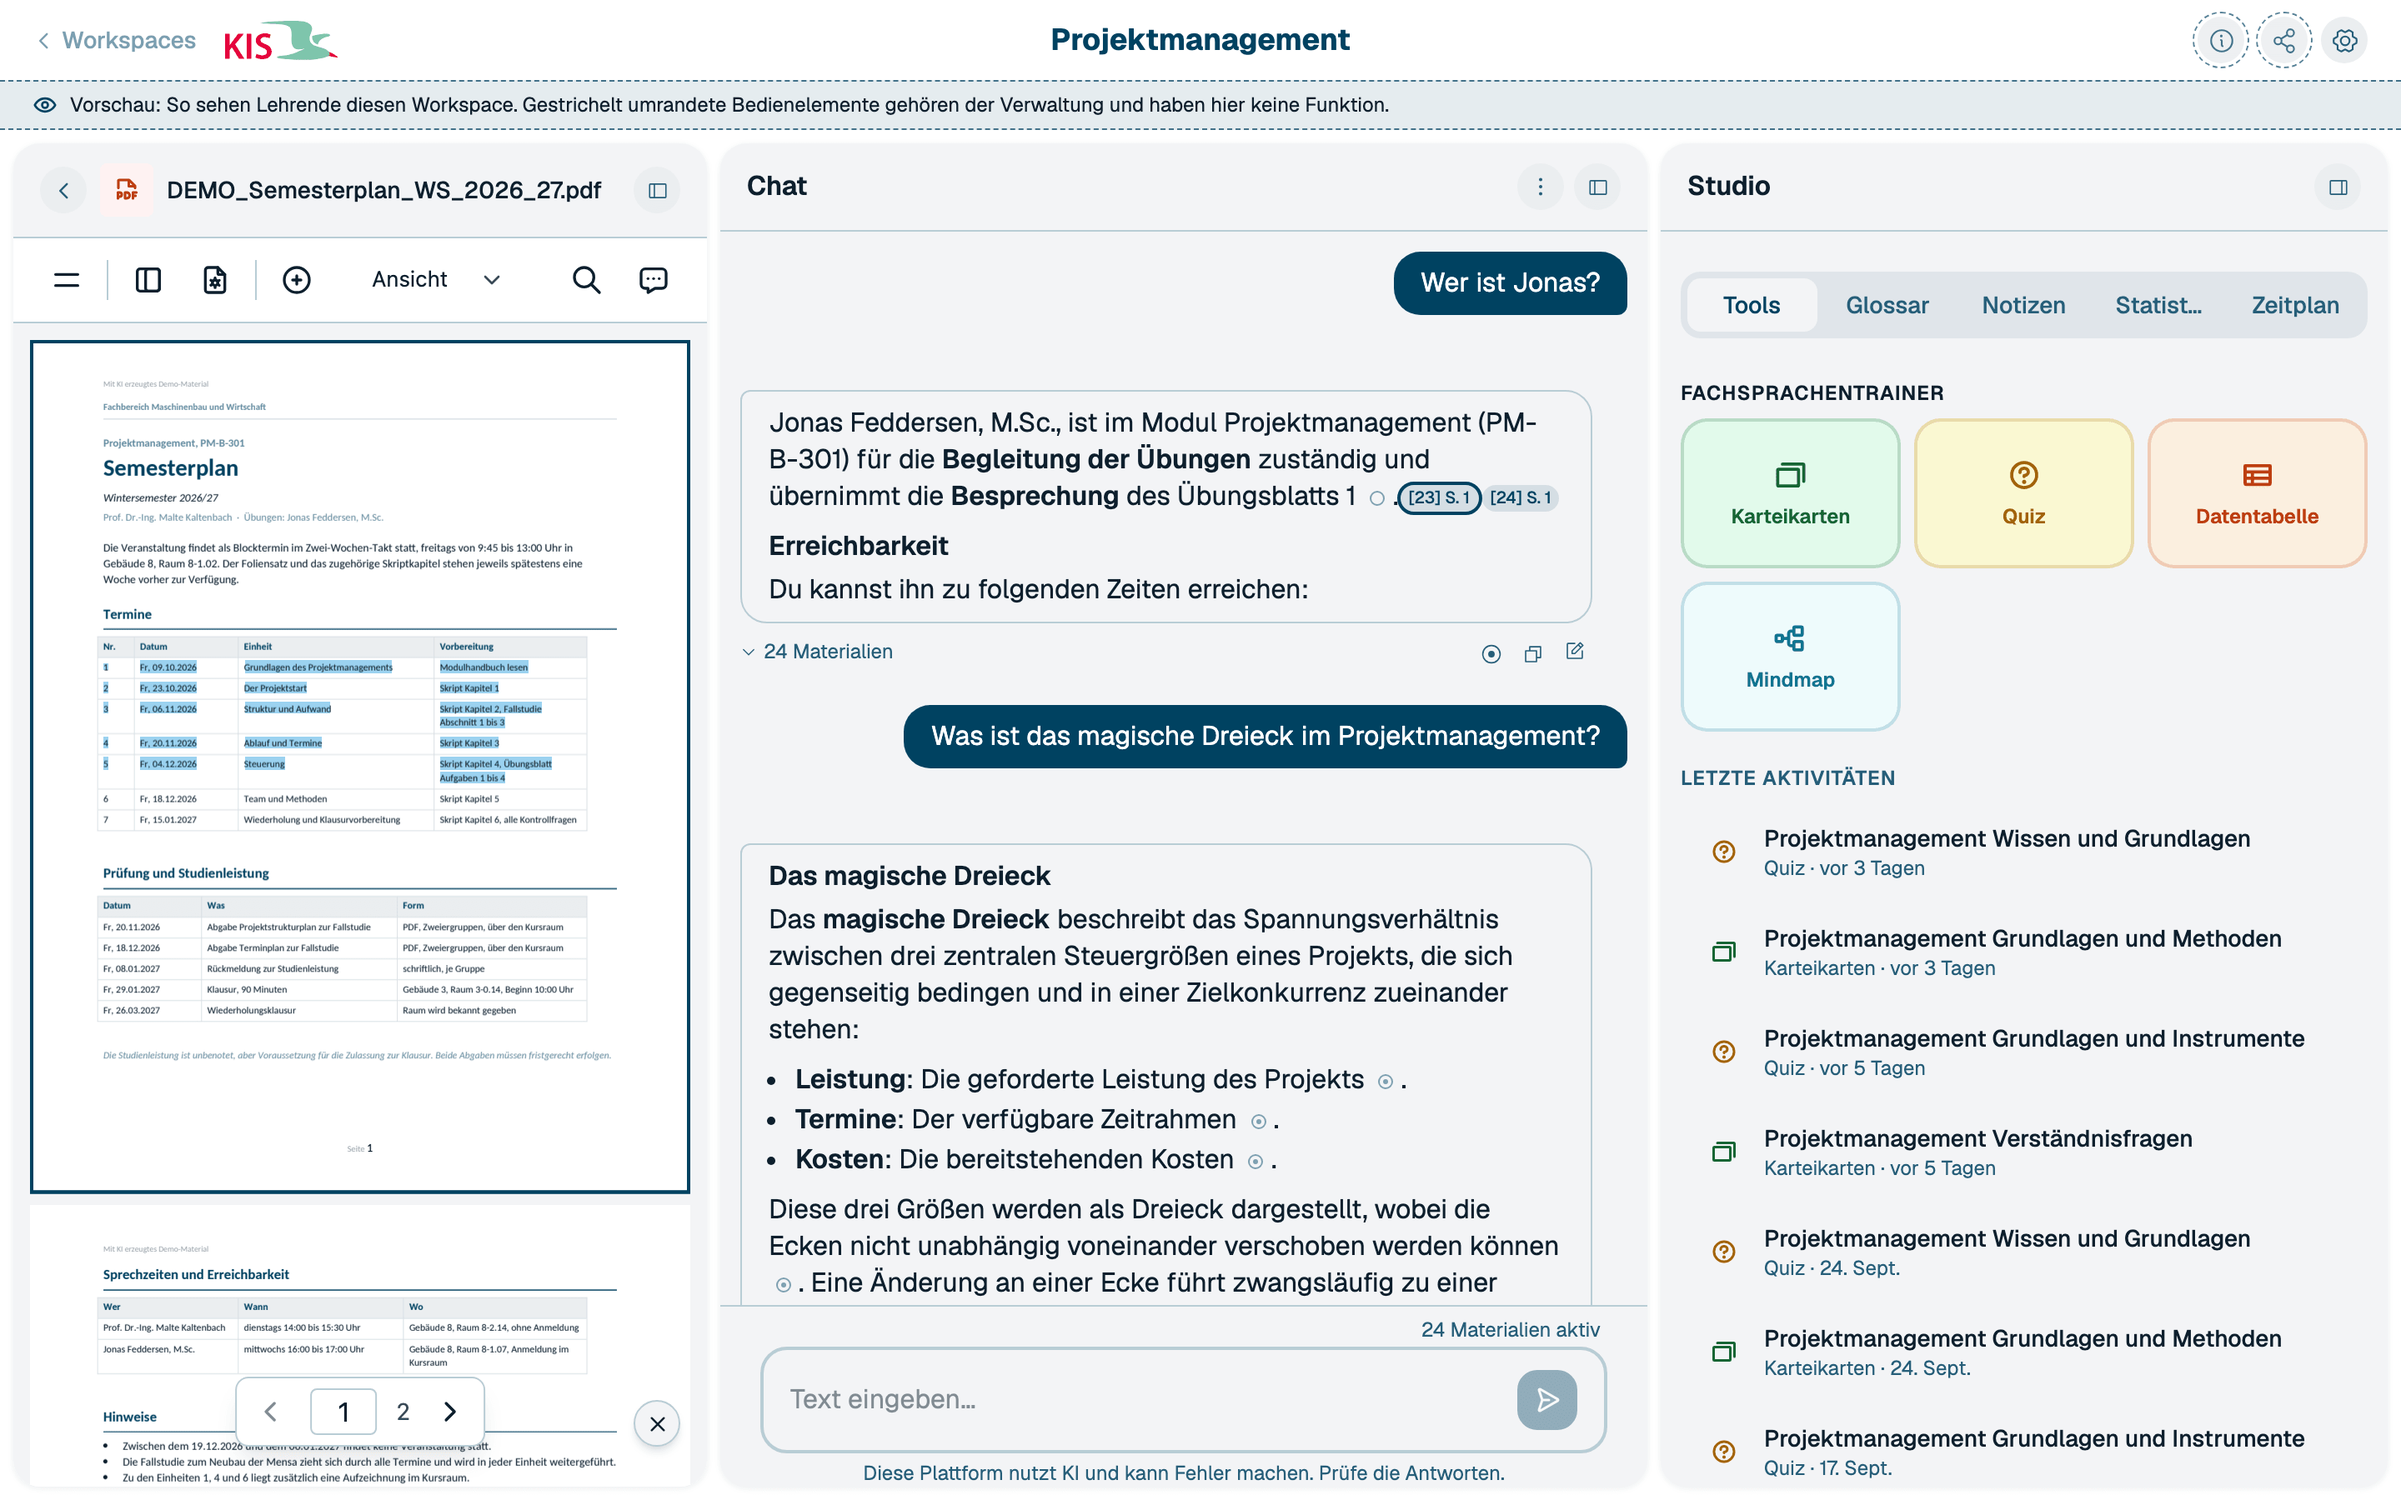
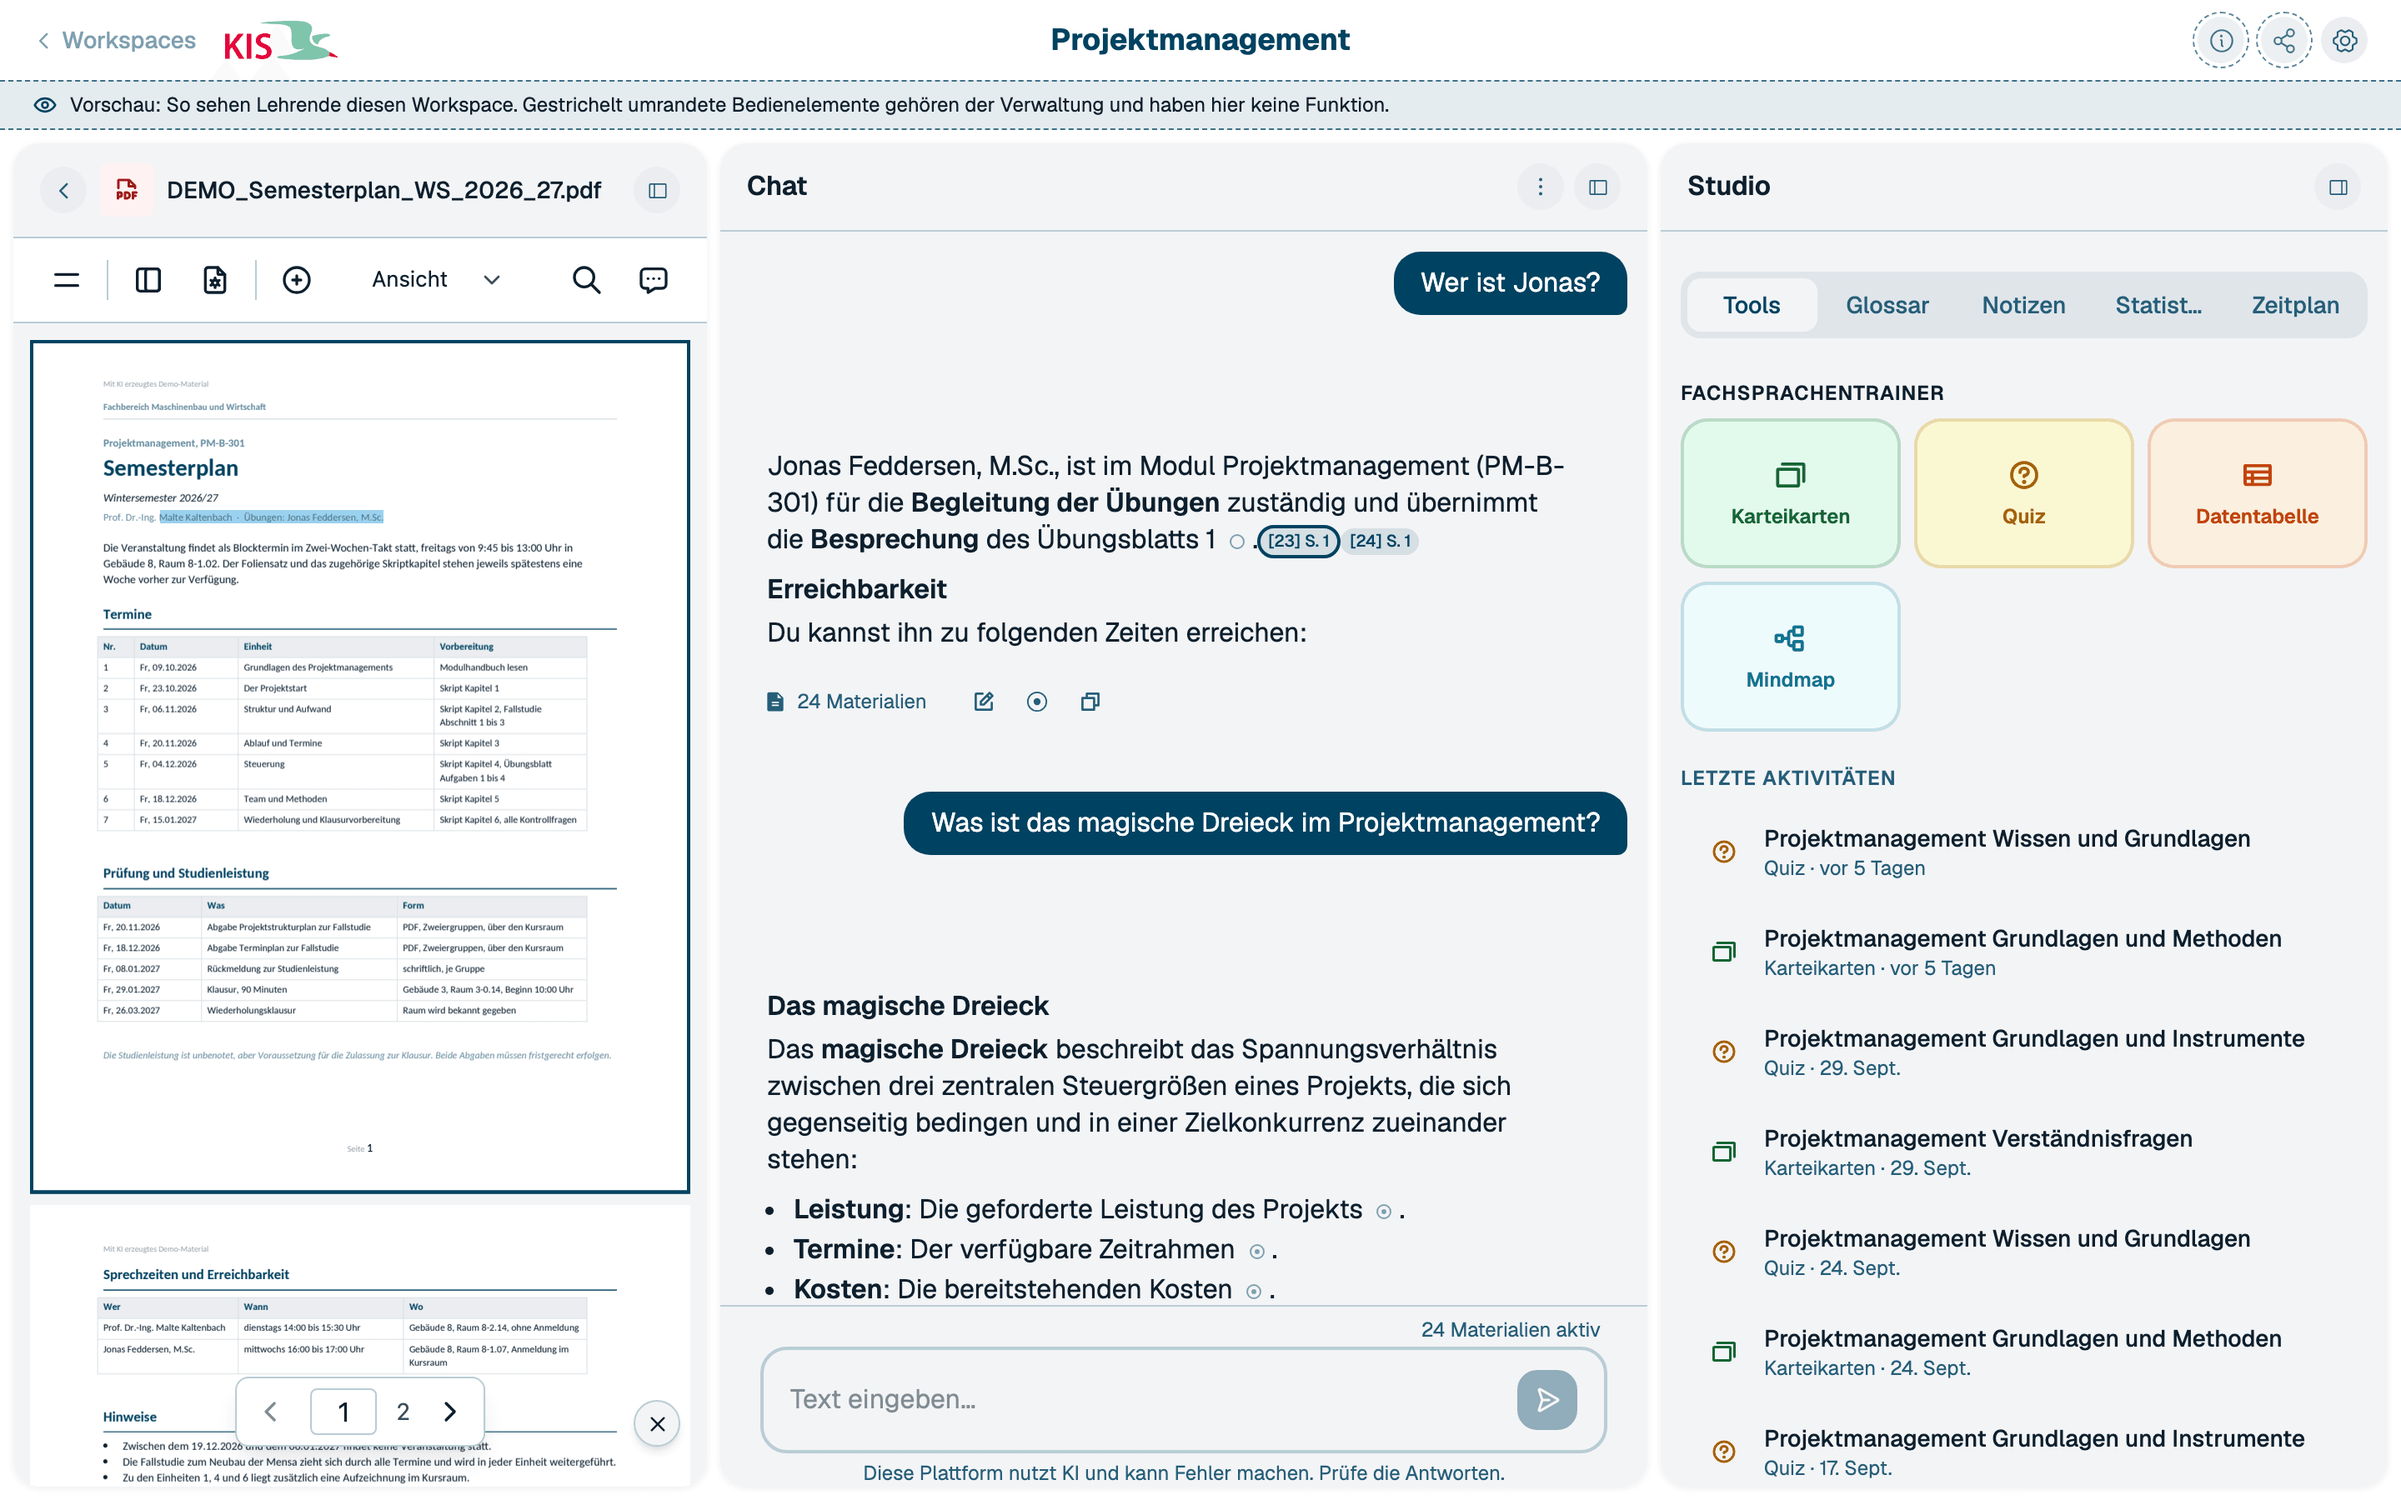
fix(quellenchips): Fundstelle bevorzugt seltene Woerter statt Tabellenblock voller Allerweltswoerter
Kurze Woerter entscheiden nur noch bei Gleichstand, ein Wort in mehreren
Abschnitten zaehlt anteilig, und der Wortanfang passt nur bei bis zu drei
Zeichen Endung (Modul ist nicht Modulhandbuch). Handbuchbild zum Beleg-Sprung neu.

diff --git a/frontend/src/app/[locale]/workspace/[uuid]/_components/viewer/_claim_match.test.ts b/frontend/src/app/[locale]/workspace/[uuid]/_components/viewer/_claim_match.test.ts
@@ -153,6 +153,28 @@ describe("findClaimSpot", () => {
     expect(findClaimSpot(text, "Quantenmechanik Schrödinger Wellenfunktion")).toBeNull();
   });
 
+  it("prefers the line with the rare words over a table full of common ones", () => {
+    const { text } = normalizePageText([
+      "Projektmanagement, PM-B-301",
+      "Semesterplan",
+      "Prof. Dr.-Ing. Malte Kaltenbach · Übungen: Jonas Feddersen, M.Sc.",
+      "Termine",
+      "Nr. Datum Einheit Vorbereitung",
+      "1 Fr, 09.10.2026 Grundlagen des Projektmanagements Modulhandbuch lesen",
+      "2 Fr, 23.10.2026 Der Projektstart Skript Kapitel 1",
+      "3 Fr, 06.11.2026 Struktur und Aufwand Skript Kapitel 2, Fallstudie ",
+      "Abschnitt 1 bis 3",
+      "4 Fr, 20.11.2026 Ablauf und Termine Skript Kapitel 3",
+      "5 Fr, 04.12.2026 Steuerung Skript Kapitel 4, Übungsblatt ",
+      "Aufgaben 1 bis 4",
+    ].join("\r\n"));
+    const hit = findClaimSpot(text, "Jonas Feddersen, M.Sc., ist im Modul Projektmanagement (PM-B-301) für die Begleitung der Übungen zuständig und übernimmt die Besprechung des Übungsblatts 1.");
+    expect(hit?.kind).toBe("passage");
+    const got = slice(text, hit!.spans).join(" ");
+    expect(got).toContain("Jonas Feddersen");
+    expect(got).not.toContain("Modulhandbuch");
+  });
+
   it("tolerates hyphenation at a line break", () => {
     const { text } = normalizePageText("Die Ver-\r\nwaltung prüft jeden Antrag sorgfältig auf Vollständigkeit.\r\nEin zweiter Satz ohne Bezug steht hier.");
     const hit = findClaimSpot(text, "Die Verwaltung prüft Anträge auf Vollständigkeit.");

diff --git a/frontend/src/app/[locale]/workspace/[uuid]/_components/viewer/_claim_match.ts b/frontend/src/app/[locale]/workspace/[uuid]/_components/viewer/_claim_match.ts
@@ -301,6 +301,10 @@ const MIN_UNITS_FOR_DF = 5;
 const MAX_KEYWORDS = 8;
 const PASSAGE_MAX_CHARS = 700;
 const GROW_STEPS = 6;
+// A prefix stands in for an inflection ending, a longer rest makes it another word.
+const MAX_ENDING_CHARS = 3;
+// Function words only decide between units that score the same otherwise.
+const TIE_WEIGHT = 0.01;
 
 /** Words of the file name repeat in headers and footers, so they carry little. */
 function titleWords(title: string | undefined): Set<string> {
@@ -343,7 +347,7 @@ function meaningful(term: Term): boolean {
 /** Equal, or one the prefix of the other, which stands in for a stemmer. */
 function wordMatches(a: string, b: string): boolean {
   if (a === b) return true;
-  if (a.length < 5 || b.length < 5) return false;
+  if (a.length < 5 || b.length < 5 || Math.abs(a.length - b.length) > MAX_ENDING_CHARS) return false;
   return a.startsWith(b) || b.startsWith(a);
 }
 
@@ -375,7 +379,11 @@ export function findClaimSpot(pageText: string, claim: string, title?: string): 
     });
   }
   const live = terms.filter((t) => units.length < MIN_UNITS_FOR_DF || (df.get(t.key) ?? 0) <= units.length * COMMON_SHARE);
-  const weightOf = (keys: Set<string>) => live.reduce((sum, t) => sum + (keys.has(t.key) ? t.weight : 0), 0);
+  // A term found in several units points less to one of them.
+  const weightOf = (keys: Set<string>) => live.reduce((sum, t) => {
+    if (!keys.has(t.key)) return sum;
+    return sum + (meaningful(t) ? t.weight / (df.get(t.key) ?? 1) : TIE_WEIGHT);
+  }, 0);
   const scores = hitsPerUnit.map(weightOf);
 
   let best = -1;
